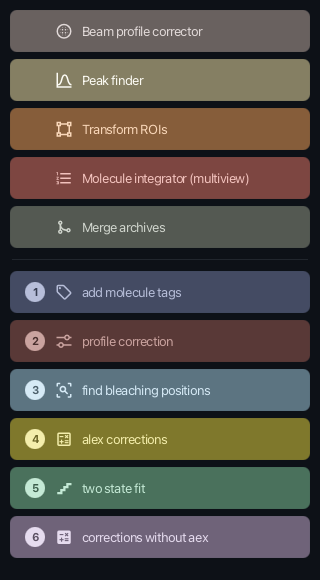
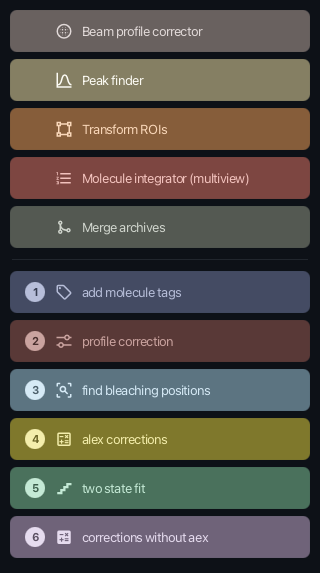
Rewrite the README around what a bar is for
Opens with the two example bars side by side, because they show the two shapes
this is good for: a protocol with numbered steps, and a toolbox grouped by
color. Then install, daily use, building a bar, the file format, and the design
notes moved to the end where they belong.

Screenshots regenerated from the current code in both themes, cropped to the
bar with no empty space.

Changed region(s): [[0.0312, 0.0297, 0.9688, 0.9791], [0.5312, 0.0297, 0.5625, 0.0593], [0.2812, 0.0297, 0.3125, 0.0593]]

diff --git a/README.md b/README.md
@@ -2,37 +2,83 @@
 
 # action-bar-fx
 
-A Fiji plugin that renders a vertical bar of colored buttons, each launching an
-ImageJ command or a script. JavaFX + AtlantaFX. Replaces the legacy ImageJ
-ActionBar plugin.
+Custom button palettes for Fiji. A bar is a column of colored buttons, each one
+launching an ImageJ command, a script, or an IJ1 macro — the tools of one
+workflow gathered in a single window instead of scattered across the menus.
 
-<img src="images/fret-power-tools.png" width="300"> <img src="images/fret-power-tools-dark.png" width="300">
+<img src="images/fret-power-tools.png" width="290" align="top"> <img src="images/mars-power-tools.png" width="308" align="top">
+
+A replacement for the legacy ImageJ ActionBar plugin, built on JavaFX and
+AtlantaFX.
+
+## Why
+
+A workflow that takes eleven commands takes eleven trips into the menus, and the
+order matters. A bar puts them in front of you in the right order, colored so
+you can find one by eye and numbered when the sequence is part of the protocol.
+
+The two bars above show the difference in intent. **FRET power tools** is a
+protocol: five setup commands, then six numbered steps to work through.
+**Mars power tools** is a toolbox: fourteen commands reached for in any order,
+colored by category with nothing to number. Both ship in
+[ActionBar/](ActionBar).
+
+## Install
+
+Copy `target/action-bar-fx-*.jar` into `Fiji.app/jars/`, then drop a bar folder
+into `Fiji.app/ActionBar/` and restart. The two example bars need
+[Mars](https://duderstadt-lab.github.io/mars-docs/) installed for their command
+buttons.
+
+Hyphens, case and the plural do not matter in the folder name — `ActionBar`,
+`action-bars` and `Action Bars` are all scanned — because getting it slightly
+wrong should not leave a bar silently missing. The scan is logged at startup, so
+the ImageJ console says which folder was read and how many bars it held.
 
 ## Using a bar
 
-Drop a bar folder into `Fiji.app/ActionBar/` and it appears under
-**Plugins › Action Bar FX › \<title\>** after a restart, listed above the
-commands below. Hyphens, case and the plural do not matter in the folder name —
-`ActionBar`, `action-bars` and `Action Bars` are all scanned — because getting
-it slightly wrong should not leave a bar silently missing. The scan is logged at startup, so the ImageJ console says
-which folder was read and how many bars it held.
+Each discovered bar appears under **Plugins › Action Bar FX › \<title\>**, listed
+above the commands:
 
-Bars are also opened explicitly:
+- **Open bar…** — open any bar folder
+- **New bar…** — create one and open the builder
+- **Edit bar…** — open the builder on an existing bar
+- **Rescan action bars** — pick up a folder dropped in after Fiji started
 
-- **Plugins › Action Bar FX › Open bar…** — pick any bar folder
-- **Plugins › Action Bar FX › New bar…** — create one and open the builder
-- **Plugins › Action Bar FX › Edit bar…** — open the builder on an existing bar
-- **Plugins › Action Bar FX › Rescan action bars** — pick up a folder that was
-  dropped in after Fiji started, without restarting
+**Right-click a bar** for **Dark theme**, **Palette**, **Edit bar…**,
+**Reload**, **Open when Fiji starts** and **Close bar**.
 
-**Right-click a bar** for everything else: **Dark theme** (remembered between
-sessions, applies to every open bar), **Palette**, **Edit bar…**, **Reload**,
-and **Open when Fiji starts**.
+Clicking a button runs the command exactly as the menu would, parameter dialog
+and all. The button disables itself and shows a spinner until the command
+finishes, so a slow step looks busy rather than ignored. If it fails, the bar
+says so itself — a toast and a red outline on the button — rather than only
+writing to the console.
 
-The shipped example is `ActionBar/fret-power-tools`, the FRET Power Tools bar
-from the [Mars docs](https://duderstadt-lab.github.io/mars-docs/tutorials/fretActionBar/)
-ported over. Copy that folder into `Fiji.app/ActionBar/` to try it. It needs
-Mars installed for the five command buttons.
+The theme is remembered between sessions and applies to every open bar. Because
+a button stores one base color and every state derives from it, the same bar
+reads correctly in both:
+
+<img src="images/mars-power-tools.png" width="290" align="top"> <img src="images/mars-power-tools-dark.png" width="290" align="top">
+
+## Making a bar
+
+**Plugins › Action Bar FX › New bar…** asks for a title and a folder, then opens
+the builder: rows on the left, the editor in the middle, a live preview of the
+bar on the right.
+
+Each button has a label, an optional step badge, a color, an icon and an action.
+The action is one of three:
+
+- **command** — anything in Fiji's menus. *Choose command…* browses the whole
+  menu tree with a filter that flattens to matching entries as you type.
+- **script** — a script file. One picked from elsewhere is copied into the bar's
+  `scripts/` folder, so the bar stays self-contained.
+- **ij1** — a raw IJ1 macro string, mainly so macros from the legacy ActionBar
+  port over by copy-paste.
+
+Icons are [Ikonli](https://kordamp.org/ikonli/) Material Design 2 literals. The
+picker shows all ~7,500 as a grid with a search box and category tabs; names
+appear on hover and for the current selection, and a double-click picks one.
 
 ## Bar format
 
@@ -86,7 +132,7 @@ Rules:
 - `paletteIndex` is the source of truth for color; `color` is an optional hex
   override. Switching the bar palette recolors everything without an override.
 - `action.path` is relative to the bar folder, which is what keeps the folder
-  portable. The builder copies a script picked from elsewhere into `scripts/`.
+  portable.
 - `action.class` is resolved first; `menuPath` is a fallback and a
   human-readable hint. Menu paths get reorganized between releases; class names
   do not.
@@ -94,11 +140,6 @@ Rules:
   slot, so labels line up across the bar.
 - Fields this build does not recognize are preserved on save, so a bar written
   by a newer version is not stripped when an older one re-saves it.
-
-Icons are [Ikonli](https://kordamp.org/ikonli/) Material Design 2 literals
-(`mdi2t-tag-outline`). The builder's picker shows all ~7,500 of them as a grid
-with a search box and category tabs; names appear on hover and for the current
-selection. Double-click an icon to pick it.
 
 ### Palettes
 
@@ -121,25 +162,18 @@ Six are shipped, in
 
 In the builder, the bar's palette is the dropdown at the top; the button's color
 is the row of swatches under **Color** — click one to assign it. The last swatch
-(`—`) means "no palette color", which draws a neutral gray; it is what a button
-gets when you have not chosen yet. **Override with a custom color** is the escape
-hatch for a one-off hue that should survive a palette switch.
+(`—`) means "no palette color", which draws a neutral gray. **Override with a
+custom color** is the escape hatch for a one-off hue that should survive a
+palette switch.
 
-ActionBarFX styles only its own windows. The AtlantaFX base theme goes on each
-bar scene with `Scene.setUserAgentStylesheet`, never
-`Application.setUserAgentStylesheet` — the latter is global to the JVM, and a
-bar is a guest in a Fiji full of other people's JavaFX windows. Setting it
-globally replaced Modena everywhere the moment a bar opened, breaking every
-stylesheet written against Modena.
-
-Each button ends up with one base color, and every visual state derives from it
-in CSS, so one hue works in both themes: `ladder()` picks the text color in light
-mode, and dark mode darkens the same hue rather than remapping it — the color
-coding is the identity of a button.
+Buttons that belong together can share one palette entry. That is what makes the
+Mars bar read as four groups rather than fourteen unrelated buttons, and it
+survives a palette switch.
 
 ## Scripting
 
-The service is registered as a script alias:
+The service is registered as a script alias, so a Groovy script can open or
+reload a bar:
 
 ```groovy
 #@ ActionBarService actionBars
@@ -154,8 +188,7 @@ actionBars.reload(new File("/path/to/fret-power-tools"))
 mvn clean package
 ```
 
-Java 21, JavaFX 23 (what Fiji ships). Copy `target/action-bar-fx-*.jar` into
-`Fiji.app/jars/`.
+Java 21 and JavaFX 23, matching what Fiji ships.
 
 To work on the look of a bar without starting Fiji, there is a standalone
 preview with live stylesheet reload through CSSFX:
@@ -164,7 +197,7 @@ preview with live stylesheet reload through CSSFX:
 mvn -q test-compile exec:java -Dexec.classpathScope=test -Dexec.mainClass=de.tum.nat.sdmm.actionbarfx.ui.ActionBarPreview -Dexec.args=ActionBar/fret-power-tools
 ```
 
-## Layout
+## How it works
 
 ```
 de.tum.nat.sdmm.actionbarfx
@@ -183,27 +216,34 @@ de.tum.nat.sdmm.actionbarfx
   legacy/       IJ1MenuBridge (lists the bars in Fiji's own menu bar)
 ```
 
-Everything in Fiji's menus — IJ1 legacy commands, ImageJ2 commands and script
-files — is a `ModuleInfo`, so one code path runs all of them through
-`moduleService.run(info, true)`, which means the normal parameter dialog
-appears. Raw IJ1 macro strings are the exception, and exist mainly so macros
-from the legacy ActionBar port over by copy-paste.
+**One path for every action.** Everything in Fiji's menus — IJ1 legacy commands,
+ImageJ2 commands and script files alike — is registered as a `ModuleInfo`, so
+all three run through `moduleService.run(info, true)`, which is what makes the
+normal parameter dialog appear. Raw IJ1 macro strings are the exception.
 
-The JavaFX toolkit is started lazily on the first bar that is opened, never
-during service initialization: that would cost every user the FX startup whether
-or not they open a bar, and would break headless runs.
+**JavaFX starts lazily**, on the first bar opened, never during service
+initialization: starting it at startup would cost every user the toolkit whether
+or not they ever open a bar, and would break headless runs. For the same reason
+`initialize()` resolves no commands — the IJ1 legacy layer may not have
+registered them yet — and never throws, so a malformed `bar.json` is a logged
+warning rather than a Fiji that will not start.
 
-Discovered bars are registered twice over, because Fiji has two menus. A
-`CommandInfo` per bar goes to the `ModuleService`, which covers the ImageJ2 UI
-and the search bar. That is not enough for the menu bar Fiji actually shows:
-imagej-legacy builds the IJ1 menu once at startup from
-`commandService.getCommandsOfType(...)`, the annotated commands in the plugin
-index, so modules added at runtime never appear in it no matter how early they
-are registered — and its map is keyed by `CommandInfo.getIdentifier()`, which
-several bars sharing one command class would collide on anyway. So
-`IJ1MenuBridge` adds the bars to `Plugins > Action Bar FX` as AWT menu items
-directly, once the UI is up. They go above the commands, tagged so a later
-rebuild replaces exactly those items and leaves the commands alone.
+**Bars are registered twice**, because Fiji has two menus. A `CommandInfo` per
+bar goes to the `ModuleService`, which covers the ImageJ2 UI and the search bar.
+That is not enough for the menu bar Fiji actually shows: imagej-legacy builds
+the IJ1 menu once at startup from `commandService.getCommandsOfType(...)`, the
+annotated commands in the plugin index, so modules added at runtime never appear
+there however early they are registered. `IJ1MenuBridge` therefore adds the bars
+to `Plugins › Action Bar FX` as AWT menu items directly, tagged so a later
+rebuild replaces exactly those and leaves the commands alone.
+
+**Styling stays inside our own windows.** The AtlantaFX base theme goes on each
+bar scene with `Scene.setUserAgentStylesheet`, never
+`Application.setUserAgentStylesheet` — the latter is global to the JVM and
+replaces Modena for every JavaFX window in the process, breaking any stylesheet
+written against it. In the other direction, a bar puts its own stylesheets back
+if another plugin clears them. Fiji is one JVM shared with other people's
+windows, and both halves are needed to be a good guest in it.
 
 ## License
 
